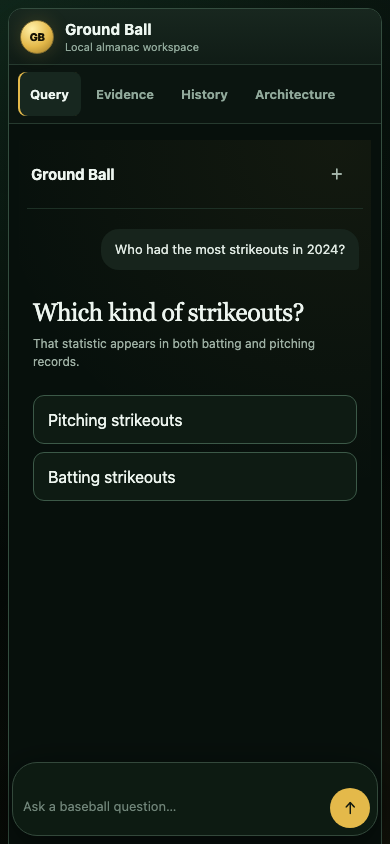
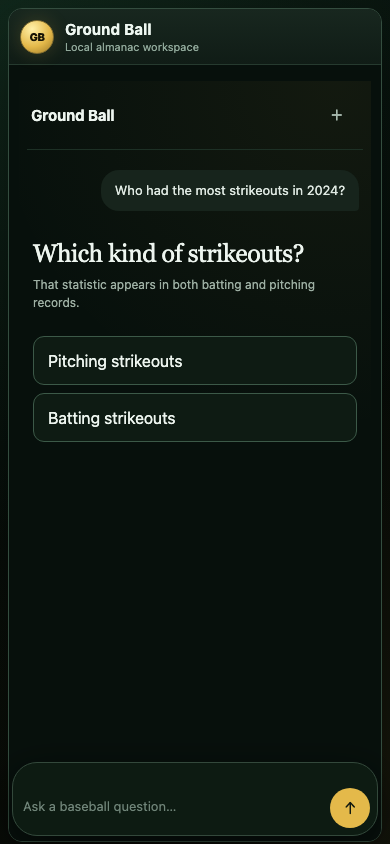
Refine Variant F bottom navigation

diff --git a/web/src/prototypes/query-recipe/chat-prototype.css b/web/src/prototypes/query-recipe/chat-prototype.css
@@ -6,6 +6,10 @@
   background: #07100c;
 }
 
+.prototype-workspace {
+  display: block;
+}
+
 .prototype-host {
   width: 100%;
   min-width: 0;
@@ -390,6 +394,14 @@
   font-size: 10px;
 }
 
+.feed-context {
+  padding: 16px 4px 0;
+  color: #71897b;
+  font-size: 10px;
+  letter-spacing: .06em;
+  text-transform: uppercase;
+}
+
 .feed-answer {
   padding: 22px 4px;
 }
@@ -479,6 +491,10 @@
   gap: 6px;
 }
 
+.chat-composer.with-settings {
+  grid-template-columns: 40px minmax(0, 1fr) 40px;
+}
+
 .chat-composer textarea {
   width: 100%;
   min-height: 40px;
@@ -521,6 +537,98 @@
   background: #e4b94a;
   font-size: 20px;
   font-weight: 900;
+}
+
+.composer-settings {
+  border: 1px solid #3a5143;
+  color: #a9b8ae;
+  background: transparent;
+  font-size: 17px;
+}
+
+.composer-settings[aria-expanded="true"] {
+  border-color: #e4b94a;
+  color: #f3d878;
+  background: #342c14;
+}
+
+.settings-popover {
+  position: fixed;
+  left: max(calc(50% - 350px), calc(12px + env(safe-area-inset-left)));
+  bottom: calc(max(8px, env(safe-area-inset-bottom)) + 72px);
+  z-index: 23;
+  width: min(270px, calc(100vw - 24px - env(safe-area-inset-left) - env(safe-area-inset-right)));
+  max-height: min(390px, calc(100dvh - 110px - env(safe-area-inset-top) - env(safe-area-inset-bottom)));
+  overflow-y: auto;
+  display: grid;
+  gap: 5px;
+  padding: 10px;
+  border: 1px solid #3a5143;
+  border-radius: 16px;
+  background: rgba(13, 25, 17, .98);
+  box-shadow: 0 18px 50px rgba(0, 0, 0, .58);
+  backdrop-filter: blur(16px);
+}
+
+.settings-popover > small {
+  padding: 5px 7px 3px;
+  color: #758b7e;
+  font-size: 9px;
+  font-weight: 800;
+  letter-spacing: .12em;
+}
+
+.settings-popover button {
+  position: relative;
+  width: 100%;
+  min-height: 50px;
+  display: grid;
+  align-content: center;
+  padding: 7px 10px;
+  border: 0;
+  border-radius: 10px;
+  color: #dce7df;
+  background: transparent;
+  text-align: left;
+}
+
+.settings-popover button.active::after {
+  content: '✓';
+  position: absolute;
+  right: 11px;
+  top: 50%;
+  color: #e4b94a;
+  font-weight: 900;
+  transform: translateY(-50%);
+}
+
+.settings-popover button.active {
+  color: #fff0af;
+  background: #2d2814;
+}
+
+.settings-popover button span,
+.settings-popover button small {
+  display: block;
+}
+
+.settings-popover-backdrop {
+  position: fixed;
+  inset: 0;
+  z-index: 17;
+  border: 0;
+  background: transparent;
+}
+
+.settings-popover button span {
+  font-size: 13px;
+  font-weight: 750;
+}
+
+.settings-popover button small {
+  margin-top: 3px;
+  color: #7f9688;
+  font-size: 9px;
 }
 
 .details-backdrop {

diff --git a/web/src/prototypes/query-recipe/VariantF.svelte b/web/src/prototypes/query-recipe/VariantF.svelte
@@ -1,6 +1,9 @@
 <script>
+  import { tick } from 'svelte';
+
   import ChatComposer from './ChatComposer.svelte';
   import DetailsSheet from './DetailsSheet.svelte';
+  import SettingsMenu from './SettingsMenu.svelte';
   import { CLARIFICATION_QUESTION, EXAMPLE_QUESTION, RESULTS } from './fixtures.js';
 
   export let previewState = 'answer';
@@ -8,6 +11,9 @@
 
   let draft = previewState === 'start' ? EXAMPLE_QUESTION : '';
   let priorPreviewState = previewState;
+  let settingsOpen = new URLSearchParams(window.location.search).get('menu') === '1';
+  let selectedSection = 'Query';
+  let composer;
   $: if (previewState !== priorPreviewState) {
     draft = previewState === 'start' ? EXAMPLE_QUESTION : '';
     priorPreviewState = previewState;
@@ -16,11 +22,27 @@
   function submit() {
     setPreviewState('answer');
     draft = '';
+    settingsOpen = false;
+  }
+
+  function toggleSettings() {
+    settingsOpen = !settingsOpen;
+  }
+
+  async function closeSettings() {
+    settingsOpen = false;
+    await tick();
+    composer?.focusSettings();
+  }
+
+  function chooseSection(section) {
+    selectedSection = section;
+    closeSettings();
   }
 </script>
 
 <article class="chat-variant feed-variant">
-  <header class="feed-header"><strong>Ground Ball</strong><span>Historical MLB</span></header>
+  <div class="feed-context">Historical MLB</div>
 
   {#if previewState === 'start'}
     <section class="feed-welcome"><h1>Ask the record.</h1><p>Edit the example in the chat box and send it when you’re ready.</p></section>
@@ -42,6 +64,19 @@
     </section>
   {/if}
 
-  <div class="chat-dock"><ChatComposer bind:value={draft} onSubmit={submit} /></div>
+  {#if settingsOpen}
+    <button class="settings-popover-backdrop" type="button" tabindex="-1" aria-label="Close sections and settings" on:click={closeSettings}></button>
+    <SettingsMenu selected={selectedSection} onSelect={chooseSection} onClose={closeSettings} />
+  {/if}
+  <div class="chat-dock">
+    <ChatComposer
+      bind:this={composer}
+      bind:value={draft}
+      onSubmit={submit}
+      showSettings={true}
+      {settingsOpen}
+      onToggleSettings={toggleSettings}
+    />
+  </div>
   {#if previewState === 'details'}<DetailsSheet onClose={() => setPreviewState('answer')} />{/if}
 </article>

diff --git a/web/src/prototypes/query-recipe/SettingsMenu.svelte b/web/src/prototypes/query-recipe/SettingsMenu.svelte
@@ -1,0 +1,41 @@
+<script>
+  import { onMount } from 'svelte';
+
+  export let selected = 'Query';
+  export let onSelect = () => {};
+  export let onClose = () => {};
+
+  const sections = [
+    { name: 'Query', description: 'Ask the record' },
+    { name: 'Evidence', description: 'Sources and answer details' },
+    { name: 'History', description: 'Recent questions' },
+    { name: 'Architecture', description: 'How Ground Ball works' },
+  ];
+  let sectionButtons = [];
+
+  onMount(() => sectionButtons[0]?.focus({ preventScroll: true }));
+
+  function handleKeydown(event) {
+    if (event.key === 'Escape') {
+      event.preventDefault();
+      onClose();
+    }
+  }
+</script>
+
+<svelte:window on:keydown={handleKeydown} />
+
+<nav class="settings-popover" id="app-sections-menu" aria-label="Application sections">
+  <small>GROUND BALL</small>
+  {#each sections as section, index}
+    <button
+      bind:this={sectionButtons[index]}
+      type="button"
+      class:active={selected === section.name}
+      aria-current={selected === section.name ? 'page' : undefined}
+      on:click={() => onSelect(section.name)}
+    >
+      <span>{section.name}</span><small>{section.description}</small>
+    </button>
+  {/each}
+</nav>

diff --git a/web/src/prototypes/query-recipe/ChatComposer.svelte b/web/src/prototypes/query-recipe/ChatComposer.svelte
@@ -2,6 +2,15 @@
   export let value = '';
   export let placeholder = 'Ask a baseball question…';
   export let onSubmit = () => {};
+  export let showSettings = false;
+  export let settingsOpen = false;
+  export let onToggleSettings = () => {};
+
+  let settingsButton;
+
+  export function focusSettings() {
+    settingsButton?.focus({ preventScroll: true });
+  }
 
   function submit() {
     const question = value.trim();
@@ -16,7 +25,18 @@
   }
 </script>
 
-<form class="chat-composer" on:submit|preventDefault={submit}>
+<form class:with-settings={showSettings} class="chat-composer" on:submit|preventDefault={submit}>
+  {#if showSettings}
+    <button
+      bind:this={settingsButton}
+      class="composer-settings"
+      type="button"
+      aria-label="Open sections and settings"
+      aria-expanded={settingsOpen}
+      aria-controls="app-sections-menu"
+      on:click={onToggleSettings}
+    >⚙</button>
+  {/if}
   <textarea bind:value rows="1" aria-label="Ask Ground Ball" {placeholder} on:keydown={handleKeydown}></textarea>
   <button class="composer-send" type="submit" aria-label="Send question">↑</button>
 </form>

diff --git a/web/src/App.svelte b/web/src/App.svelte
@@ -268,8 +268,9 @@
     {#if capabilityError}
       <div class="startup-error" role="alert">{capabilityError}</div>
     {:else}
-      <div class="workspace">
-        <aside class="sidebar">
+      <div class:prototype-workspace={prototypeMode} class="workspace">
+        {#if !prototypeMode}
+          <aside class="sidebar">
           <div class="brand-block">
             <span class="eyebrow">Historical MLB</span>
             <strong>Ask the record.</strong>
@@ -294,7 +295,8 @@
               <small>{llmEnabled ? 'Local narration enabled' : 'No LLM access'}</small>
             </div>
           </div>
-        </aside>
+          </aside>
+        {/if}
 
         <div class:prototype-column={prototypeMode} class="main-column">
           {#if prototypeMode}
@@ -505,7 +507,7 @@
           {/if}
         </div>
 
-        {#if historyEnabled}
+        {#if historyEnabled && !prototypeMode}
           <aside class="history-panel" id="history">
             <div class="card-kicker"><span>Recent questions</span><span>On this device</span></div>
             {#if history.length}

diff --git a/web/prototype-screenshots/README.md b/web/prototype-screenshots/README.md
@@ -7,4 +7,4 @@ Generated from the throwaway `prototype/mobile-query-recipe` branch with Chrome 
 - `E`: search-style answer page controlled by the bottom chat composer.
 - `F`: compact sports-feed answer.
 
-The `D`–`F` captures cover start, answer, clarification, and hidden-details states. Presentation captures omit the prototype-only evaluator and variant switcher.
+The `D`–`F` captures cover start, answer, clarification, and hidden-details states. `F-settings.png` captures the selected direction's expandable bottom navigation. Presentation captures omit the prototype-only evaluator and variant switcher.
